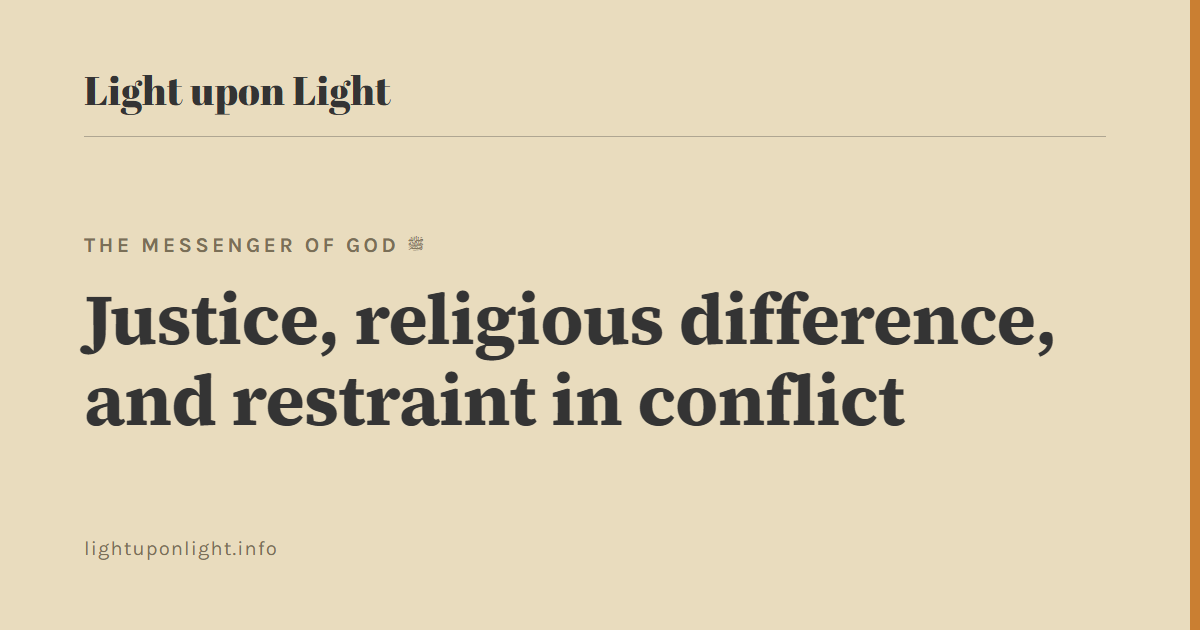
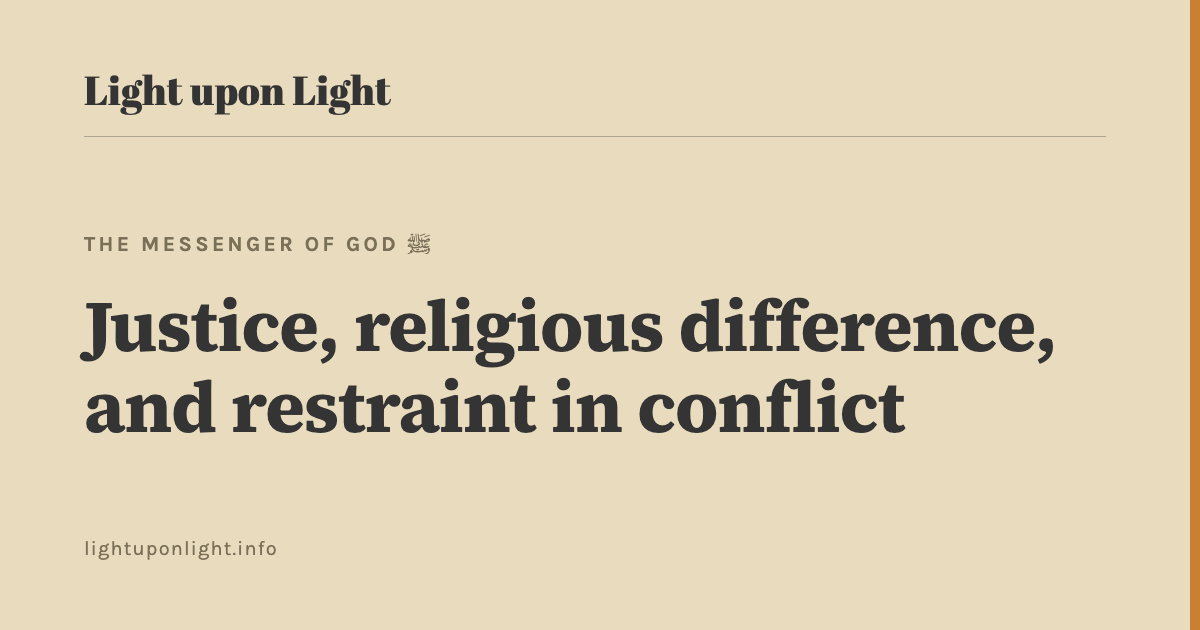
ﷺ in Amiri instead of IBM Plex Sans Arabic
LUL Salawat is now Amiri cut to U+FDFA. Amiri Bold draws it identically,
so one file backs every face. Link-preview cards with ﷺ regenerated;
gen.py finds Chrome on macOS too.

diff --git a/_includes/head/custom.html b/_includes/head/custom.html
@@ -123,14 +123,15 @@
     src: url("{{ '/assets/fonts/kfgqpc-hafs/UthmanicHafs1Ver18.woff2' | relative_url }}") format("woff2");
   }
 
-  /* LUL Salawat: IBM Plex Sans Arabic cut down to one character, U+FDFA
-     (ﷺ), and renamed -- its licence reserves the name "Plex" for unmodified
-     copies (assets/fonts/salawat/OFL.txt). No site font has ﷺ, so each OS
-     used to substitute its own; this goes first in every Latin stack (here
-     and via $serif/$sans-serif in _dirt.scss) so all readers get one
-     design. unicode-range keeps it from being fetched on pages without ﷺ.
-     The italic faces reuse the upright files so italic text doesn't get a
-     synthesised slant through the ligature. */
+  /* LUL Salawat: Amiri cut down to one character, U+FDFA (ﷺ), and renamed
+     so it can't collide with the ornaments-only "Amiri" face above (licence
+     in assets/fonts/salawat/OFL.txt). No site font has ﷺ, so each OS used
+     to substitute its own; this goes first in every Latin stack (here and
+     via $serif/$sans-serif in _dirt.scss) so all readers get one design.
+     unicode-range keeps it from being fetched on pages without ﷺ. Amiri
+     Bold draws ﷺ identically, so one file serves every face: the 700 and
+     italic declarations exist only so the browser doesn't synthesise a
+     bold or a slant through the ligature. */
   @font-face {
     font-family: "LUL Salawat";
     font-style: normal;
@@ -144,7 +145,7 @@
     font-style: normal;
     font-weight: 700;
     font-display: swap;
-    src: url("{{ '/assets/fonts/salawat/LULSalawat-Bold.woff2' | relative_url }}") format("woff2");
+    src: url("{{ '/assets/fonts/salawat/LULSalawat-Regular.woff2' | relative_url }}") format("woff2");
     unicode-range: U+FDFA;
   }
   @font-face {
@@ -160,7 +161,7 @@
     font-style: italic;
     font-weight: 700;
     font-display: swap;
-    src: url("{{ '/assets/fonts/salawat/LULSalawat-Bold.woff2' | relative_url }}") format("woff2");
+    src: url("{{ '/assets/fonts/salawat/LULSalawat-Regular.woff2' | relative_url }}") format("woff2");
     unicode-range: U+FDFA;
   }
 

diff --git a/_notes/scripts/og/og.html b/_notes/scripts/og/og.html
@@ -27,7 +27,7 @@
   }
   @font-face {
     font-family: "LUL Salawat";
-    src: url("FONTS/salawat/LULSalawat-Bold.woff2") format("woff2");
+    src: url("FONTS/salawat/LULSalawat-Regular.woff2") format("woff2");
     font-weight: 700;
     unicode-range: U+FDFA;
   }

diff --git a/_notes/scripts/og/gen.py b/_notes/scripts/og/gen.py
@@ -19,7 +19,10 @@ import subprocess, sys, urllib.parse, pathlib, tempfile
 
 HERE = pathlib.Path(__file__).resolve().parent
 ROOT = HERE.parents[2]  # _notes/scripts/og -> repo root
-CHROME = r"C:\Program Files\Google\Chrome\Application\chrome.exe"
+CHROME = next((c for c in (
+    r"C:\Program Files\Google\Chrome\Application\chrome.exe",
+    "/Applications/Google Chrome.app/Contents/MacOS/Google Chrome",
+) if pathlib.Path(c).exists()), "google-chrome")
 OUTDIR = ROOT / "assets" / "images" / "og"
 OUTDIR.mkdir(parents=True, exist_ok=True)
 

diff --git a/_notes/guides/styling.md b/_notes/guides/styling.md
@@ -75,8 +75,8 @@ Amiri is ever needed for means re-subsetting it from the full font and
 widening its `unicode-range`.
 
 ﷺ (U+FDFA) is in none of the site's fonts, so each OS used to substitute its
-own. `LUL Salawat` — IBM Plex Sans Arabic cut to that one character, in 400
-and 700, renamed because the licence reserves "Plex" — goes first in every
+own. `LUL Salawat` — Amiri cut to that one character (one file, declared at
+400 and 700 so headings don't faux-bold it) — goes first in every
 Latin stack: the ones in `site.scss`, `$serif`/`$sans-serif` in `_dirt.scss`
 (the theme's), and `og.html`'s. A new `font-family` stack needs it in front
 too, or its ﷺ falls back to the OS again. The
